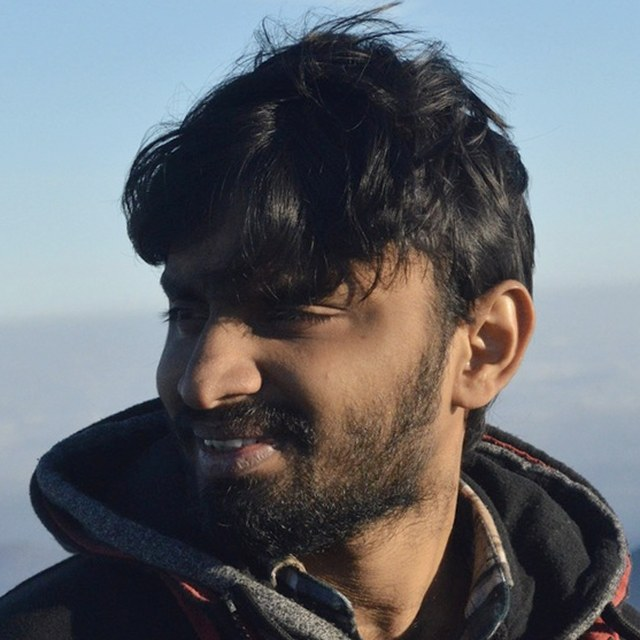
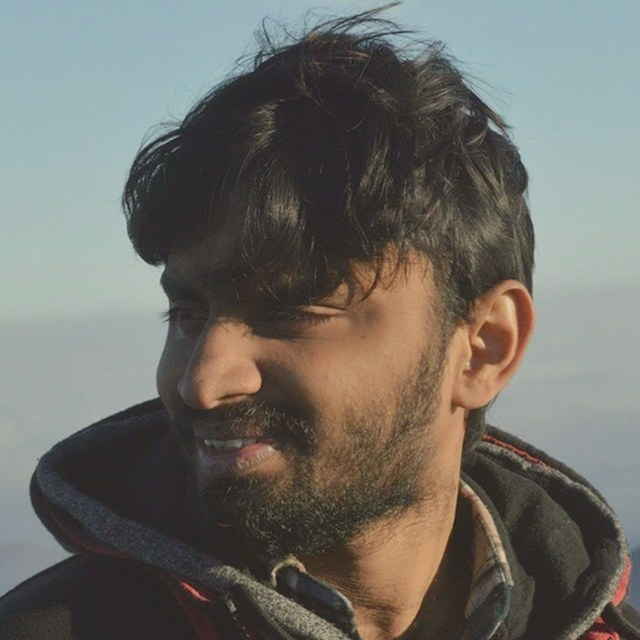
Warm up the dark-mode photo to match the day photo's colour
Claude-Session: https://claude.ai/code/session_01DUHUvsk4d72F8rTo4YmRrU

diff --git a/index.html b/index.html
@@ -40,7 +40,7 @@
       <div class="profile">
         <div class="profile-photo">
           <img src="profile.jpg?v=5" alt="Pratheek B" class="photo-day" width="160" height="160" />
-          <img src="profile-dark.jpg?v=7" alt="" class="photo-dark" width="160" height="160" />
+          <img src="profile-dark.jpg?v=8" alt="" class="photo-dark" width="160" height="160" />
         </div>
         <div class="nameblock">
           <h1>Pratheek B</h1>
